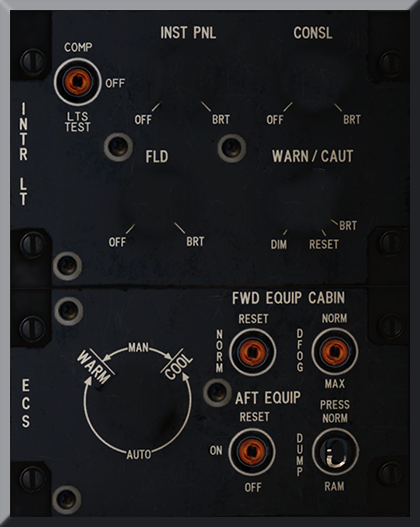
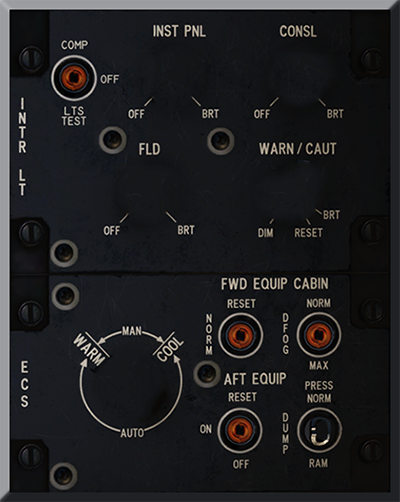
Fix for AV-8B Interface

diff --git a/Helios/Interfaces/DCS/AV8B/AV8BInterfaceEditor.xaml b/Helios/Interfaces/DCS/AV8B/AV8BInterfaceEditor.xaml
@@ -146,7 +146,7 @@
           <TextBlock Margin="4" TextWrapping="Wrap">
             In order for Helios to interface with DCS AV-8B an updated Export.lua file must be installed. This will back up and existing Export.lua file and deploy the necessary Helios configuration.
           </TextBlock>
-          <Button Click="Configure_Click" Grid.Row="1" HorizontalAlignment="Right" Margin="2">Setup DCS A-10C</Button>
+          <Button Click="Configure_Click" Grid.Row="1" HorizontalAlignment="Right" Margin="2">Setup DCS AV-8B</Button>
         </StackPanel>
       </StackPanel>
     </GroupBox>

diff --git a/Helios/Interfaces/DCS/AV8B/AV8BInterface.cs b/Helios/Interfaces/DCS/AV8B/AV8BInterface.cs
@@ -83,7 +83,7 @@ namespace GadrocsWorkshop.Helios.Interfaces.DCS.AV8B
         {
             DCSConfigurator config = new DCSConfigurator("DCSAV8B", DCSPath);
             config.ExportConfigPath = "Config\\Export";
-            config.ExportFunctionsPath = "pack://application:,,,/Helios;component/Interfaces/DCS/AV-8B/ExportFunctions.lua";
+            config.ExportFunctionsPath = "pack://application:,,,/Helios;component/Interfaces/DCS/AV8B/ExportFunctions.lua";
             Port = config.Port;
             _phantomFix = config.PhantomFix;
             _phantomLeft = config.PhantomFixLeft;
@@ -111,6 +111,11 @@ namespace GadrocsWorkshop.Helios.Interfaces.DCS.AV8B
             AddFunction(new PushButton(this, MPCD_LEFT, "3218", "3218", "Left MFCD", "OSB19", "1", "0", "%1d"));
             AddFunction(new PushButton(this, MPCD_LEFT, "3219", "3219", "Left MFCD", "OSB20", "1", "0", "%1d"));
             AddFunction(new Axis(this, MPCD_LEFT, "3194", "3194", 0.1d, 0d, 1d, "Left MFCD", "Off/Brightness Control"));
+            AddFunction(Switch.CreateThreeWaySwitch(this, MPCD_LEFT, "3220", "3220", "-1", "Day", "0", "Off", "1", "Night", "Left MFCD", "DAY/NIGHT Mode", "%1d"));
+            AddFunction(Switch.CreateThreeWaySwitch(this, MPCD_LEFT, "3221", "3221", "-1", "More", "0", "Off", "1", "Less", "Left MFCD", "Symbology", "%1d"));
+            AddFunction(Switch.CreateThreeWaySwitch(this, MPCD_LEFT, "3222", "3222", "-1", "Up", "0", "Off", "1", "Down", "Left MFCD", "Gain", "%1d"));
+            AddFunction(Switch.CreateThreeWaySwitch(this, MPCD_LEFT, "3223", "3223", "-1", "Up", "0", "Off", "1", "Down", "Left MFCD", "Contrast", "%1d"));
+
             #endregion
 
             #region Right MCFD
@@ -135,6 +140,11 @@ namespace GadrocsWorkshop.Helios.Interfaces.DCS.AV8B
             AddFunction(new PushButton(this, MPCD_RIGHT, "3242", "3242", "Right MFCD", "OSB19"));
             AddFunction(new PushButton(this, MPCD_RIGHT, "3243", "3243", "Right MFCD", "OSB20"));
             AddFunction(new Axis(this, MPCD_RIGHT, "3195", "3195", 0.1d, 0d, 1d, "Right MFCD", "Off/Brightness Control"));
+            AddFunction(Switch.CreateThreeWaySwitch(this, MPCD_RIGHT, "3244", "3244", "-1", "Day", "0", "Off", "1", "Night", "Right MFCD", "DAY/NIGHT Mode", "%1d"));
+            AddFunction(Switch.CreateThreeWaySwitch(this, MPCD_RIGHT, "3245", "3245", "-1", "More", "0", "Off", "1", "Less", "Right MFCD", "Symbology", "%1d"));
+            AddFunction(Switch.CreateThreeWaySwitch(this, MPCD_RIGHT, "3246", "3246", "-1", "Up", "0", "Off", "1", "Down", "Right MFCD", "Gain", "%1d"));
+            AddFunction(Switch.CreateThreeWaySwitch(this, MPCD_RIGHT, "3247", "3247", "-1", "Up", "0", "Off", "1", "Down", "Right MFCD", "Contrast", "%1d"));
+
 
             #endregion
 
@@ -175,9 +185,6 @@ namespace GadrocsWorkshop.Helios.Interfaces.DCS.AV8B
             AddFunction(new Axis(this, UFCCONTROL, "3299", "3299", 0.1d, 0d, 1d, "UFC", "Comm 2 Volume"));
             AddFunction(new Axis(this, UFCCONTROL, "3300", "3300", 0.1d, 0d, 1d, "UFC", "Comm 1 Channel selector"));
             AddFunction(new Axis(this, UFCCONTROL, "3301", "3301", 0.1d, 0d, 1d, "UFC", "Comm 2 Channel selector"));
-            //       public IndicatorPushButton(BaseUDPInterface sourceInterface, string deviceId, string buttonId, string argId, string device, string name)
-            //       public FlagValue(BaseUDPInterface sourceInterface, string id, string device, string name, string description)
-            //       public PushButton(BaseUDPInterface sourceInterface, string deviceId, string buttonId, string argId, string device, string name)
             AddFunction(Switch.CreateThreeWaySwitch(this, HUDCONTROL, "3288", "3288", "0", "Norm", "0.5", "Reject 1", "1", "Reject 2", "HUD Control", "Declutter switch", "%1d"));
             AddFunction(new Axis(this, HUDCONTROL, "3289", "3289", 0.1d, 0d, 1d, "HUD Control", "Off/Brightness control"));
             AddFunction(Switch.CreateThreeWaySwitch(this, HUDCONTROL, "3290", "3290", "0", "Day", "0.5", "Auto", "1", "Night", "HUD Control", "Display Mode switch", "%1d"));
@@ -439,7 +446,6 @@ namespace GadrocsWorkshop.Helios.Interfaces.DCS.AV8B
             AddFunction(new NetworkValue(this, "385", "Stores Management", "SMC mode (value)", "Current SMC mode in value form", "", BindingValueUnits.Numeric));
             AddFunction(new NetworkValue(this, "386", "Stores Management", "Fuze mode 1 (value)", "Fuze mode (1st part)", "", BindingValueUnits.Numeric));
             AddFunction(new NetworkValue(this, "387", "Stores Management", "Fuze mode 2 (value)", "Fuze mode (2nd part)", "", BindingValueUnits.Numeric));
-            AddFunction(new NetworkValue(this, "2007", "Stores Management", "Fuze Mode (combined 2007)", "Fuze mode in combined form", "", BindingValueUnits.Numeric));
             AddFunction(new NetworkValue(this, "2019", "Stores Management", "Fuze Mode (combined 2019)", "Fuze mode in combined form", "", BindingValueUnits.Numeric));
 
             #endregion
@@ -456,21 +462,21 @@ namespace GadrocsWorkshop.Helios.Interfaces.DCS.AV8B
             // switch positions still need to be labeled
             AddFunction(new Axis(this, RSC, "3614", "3614", 0.03d, 0d, 1d, "V/UHF Radio", "Volume Knob"));
             AddFunction(new Axis(this, RSC, "3615", "3615", 0.03d, 0d, 1d, "V/UHF Radio", "Chan/Freq Knob"));
-            AddFunction(new Switch(this, RSC, "3616", new SwitchPosition[] {new SwitchPosition("-0.20", "Norm", "3616"), new SwitchPosition("0.0", "Norm", "3616"), new SwitchPosition("0.0", "Norm", "3616"), new SwitchPosition("0.20", "Norm", "3616"), new SwitchPosition("0.40", "Norm", "3616"), new SwitchPosition("0.60", "Norm", "3616"), new SwitchPosition("0.80", "Norm", "3616"), new SwitchPosition("1.0", "Norm", "3616") }, "V / UHF Radio", "Operational Mode Switch", "%0.1f"));
+            AddFunction(new Switch(this, RSC, "3616", new SwitchPosition[] {new SwitchPosition("-0.20", "Zero", "3616"), new SwitchPosition("0.0", "Off", "3616"), new SwitchPosition("0.0", "Test", "3616"), new SwitchPosition("0.20", "TR+G", "3616"), new SwitchPosition("0.40", "TR", "3616"), new SwitchPosition("0.60", "ADF", "3616"), new SwitchPosition("0.80", "Chng PRST", "3616"), new SwitchPosition("1.0", "Norm", "3616") }, "V / UHF Radio", "Operational Mode Switch", "%0.1f"));
             AddFunction(new PushButton(this, RSC, "3617", "3617", "V/UHF Radio", "Ancillary Mode Pointer A mode"));
             AddFunction(new PushButton(this, RSC, "3618", "3618", "V/UHF Radio", "Ancillary Mode Switch P mode"));
-            AddFunction(new Switch(this, RSC, "3619", new SwitchPosition[] { new SwitchPosition("0.0", "Norm", "3619"), new SwitchPosition("0.0", "Norm", "3619"), new SwitchPosition("0.15", "Norm", "3619"), new SwitchPosition("0.30", "Norm", "3619"), new SwitchPosition("0.45", "Norm", "3619"), new SwitchPosition("0.60", "Norm", "3619"), new SwitchPosition("0.75", "Norm", "3619"), new SwitchPosition("0.90", "Norm", "3619"), new SwitchPosition("1.00", "Norm", "3619") }, "V / UHF Radio", "Frequency Mode Switch", "%0.1f"));
+            AddFunction(new Switch(this, RSC, "3619", new SwitchPosition[] { new SwitchPosition("0.0", "AJ/M", "3619"), new SwitchPosition("0.0", "AJ", "3619"), new SwitchPosition("0.15", "MAR", "3619"), new SwitchPosition("0.30", "PRST", "3619"), new SwitchPosition("0.45", "MAN", "3619"), new SwitchPosition("0.60", "234", "3619"), new SwitchPosition("0.75", "121", "3619"), new SwitchPosition("0.90", "Norm", "3619"), new SwitchPosition("1.00", "Norm", "3619") }, "V / UHF Radio", "Frequency Mode Switch", "%0.1f"));
             AddFunction(new PushButton(this, RSC, "3620", "3620", "V/UHF Radio", "LOAD/OFST Switch"));
 
             #endregion
 
             #region ACNIP
             // switch positions still need to be labeled
-            AddFunction(Switch.CreateToggleSwitch(this, ACNIP, "3621", "3621", "1", "On", "0", "Off", "ACNIP", "ACNIP Mode Switch", "%1d"));
-            AddFunction(Switch.CreateToggleSwitch(this, ACNIP, "3622", "3622", "1", "On", "0", "Off", "ACNIP", "KY-1 Cipher Type Selector Switch", "%1d"));
-            AddFunction(Switch.CreateToggleSwitch(this, ACNIP, "3623", "3623", "1", "On", "0", "Off", "ACNIP", "KY-2 Cipher Type Selector Switch", "%1d"));
-            AddFunction(Switch.CreateToggleSwitch(this, ACNIP, "3624", "3624", "1", "On", "0", "Off", "ACNIP", "KY-1 Code/Mode Switch", "%1d"));
-            AddFunction(Switch.CreateToggleSwitch(this, ACNIP, "3625", "3625", "1", "On", "0", "Off", "ACNIP", "KY-2 Code/Mode Switch", "%1d"));
+            AddFunction(Switch.CreateToggleSwitch(this, ACNIP, "3621", "3621", "1", "MAN", "0", "UFC", "ACNIP", "ACNIP Mode Switch", "%1d"));
+            AddFunction(Switch.CreateToggleSwitch(this, ACNIP, "3622", "3622", "1", "DIPH", "0", "BB", "ACNIP", "KY-1 Cipher Type Selector Switch", "%1d"));
+            AddFunction(Switch.CreateToggleSwitch(this, ACNIP, "3623", "3623", "1", "DIPH", "0", "BB", "ACNIP", "KY-2 Cipher Type Selector Switch", "%1d"));
+            AddFunction(Switch.CreateToggleSwitch(this, ACNIP, "3624", "3624", "1", "Code", "0", "Mode", "ACNIP", "KY-1 Code/Mode Switch", "%1d"));
+            AddFunction(Switch.CreateToggleSwitch(this, ACNIP, "3625", "3625", "1", "Code", "0", "Mode", "ACNIP", "KY-2 Code/Mode Switch", "%1d"));
             AddFunction(Switch.CreateToggleSwitch(this, ACNIP, "3626", "3626", "1", "On", "0", "Off", "ACNIP", "ACNIP Radio Selector Switch", "%1d"));
             AddFunction(Switch.CreateToggleSwitch(this, ACNIP, "3627", "3627", "1", "On", "0", "Off", "ACNIP", "KY-58 Codes Clear Switch", "%1d"));
             AddFunction(Switch.CreateThreeWaySwitch(this, ACNIP, "3628", "3628", "1", "On", "0.5", "Off", "0", "Off", "ACNIP", "KY-58 Remote Codes Load Switch", "%1d"));
@@ -488,8 +494,7 @@ namespace GadrocsWorkshop.Helios.Interfaces.DCS.AV8B
             #endregion
 
             #region Interior Lights
-            // switch positions still need to be labeled
-            AddFunction(new PushButton(this, LTINT, "3634", "3634", "Interior Lights", "Compass Light/Test Lights")); //default_tumb_button(_("Compass Light/Test Lights") * * * Not sure if this is correct
+            AddFunction(Switch.CreateThreeWaySwitch(this, LTINT, "3634", "3634", "1", "Compass", "0.5", "Off","0","Lights Test","Interior Lights", "Compass Light/Test Lights","%.1f")); //default_tumb_button(_("Compass Light/Test Lights") * * * Not sure if this is correct
             AddFunction(new Axis(this, LTINT, "3635", "3635", 0.03d, 0d, 1d, "Interior Lights", "Instruments Lights"));
             AddFunction(new Axis(this, LTINT, "3636", "3636", 0.03d, 0d, 1d, "Interior Lights", "Console Lights"));
             AddFunction(new Axis(this, LTINT, "3637", "3637", 0.03d, 0d, 1d, "Interior Lights", "Flood Lights"));
@@ -524,18 +529,16 @@ namespace GadrocsWorkshop.Helios.Interfaces.DCS.AV8B
             #endregion
 
             #region ECS
-            // switch positions still need to be labeled
             AddFunction(new Axis(this, ECS, "3639", "3639", 0.03d, 0d, 1d, "Environment Control", "Temperature Control Knob"));
-            AddFunction(Switch.CreateToggleSwitch(this, ECS, "3640", "3640", "1", "On", "0", "Off", "Environment Control", "Fwd Equipment Bay ECS Switch", "%1d"));
-            AddFunction(new Switch(this, ECS, "3641", new SwitchPosition[] { new SwitchPosition("0.0", "Norm", "3641"), new SwitchPosition("0.5", "Norm", "3641"), new SwitchPosition("1.0", "Norm", "3641") }, "Environment Control", "Cabin Defog Switch", "%0.1f"));
-            AddFunction(new Switch(this, ECS, "3642", new SwitchPosition[] { new SwitchPosition("0.0", "Norm", "3642"), new SwitchPosition("0.5", "Norm", "3642"), new SwitchPosition("1.0", "Norm", "3642") }, "Environment Control", "Aft Equipment Bay ECS Switch", "%0.1f"));
-            AddFunction(new Switch(this, ECS, "3643", new SwitchPosition[] { new SwitchPosition("0.0", "Norm", "3643"), new SwitchPosition("0.5", "Norm", "3643"), new SwitchPosition("1.0", "Norm", "3643") }, "Environment Control", "Cabin Pressure Switch", "%0.1f"));
+            AddFunction(Switch.CreateToggleSwitch(this, ECS, "3640", "3640", "1", "Norm", "0", "Reset", "Environment Control", "Fwd Equipment Bay ECS Switch", "%1d"));
+            AddFunction(new Switch(this, ECS, "3641", new SwitchPosition[] { new SwitchPosition("0.0", "Norm", "3641"), new SwitchPosition("0.5", "Defog", "3641"), new SwitchPosition("1.0", "Max", "3641") }, "Environment Control", "Cabin Defog Switch", "%0.1f"));
+            AddFunction(new Switch(this, ECS, "3642", new SwitchPosition[] { new SwitchPosition("0.0", "Reset", "3642"), new SwitchPosition("0.5", "On", "3642"), new SwitchPosition("1.0", "Off", "3642") }, "Environment Control", "Aft Equipment Bay ECS Switch", "%0.1f"));
+            AddFunction(new Switch(this, ECS, "3643", new SwitchPosition[] { new SwitchPosition("0.0", "PRESS NORM", "3643"), new SwitchPosition("0.5", "DUMP", "3643"), new SwitchPosition("1.0", "RAM", "3643") }, "Environment Control", "Cabin Pressure Switch", "%0.1f"));
             #endregion
 
             #region Engine Display Panel
             AddFunction(new ScaledNetworkValue(this, "271", 0.94d, "EDP", "Nozzle Position", "Current Nozzle position.", "Nozzle position in degrees", BindingValueUnits.Degrees));
             AddFunction(new PushButton(this, EDP, "3655", "3655", "EDP", "BIT"));
-            //elements["PTN_272"] = default_axis_limited(_("EDP Brightness Control"), devices.EDP, edp_commands.BRT_Knob, 272, 0, 0.03, false, 0, { 0, 1})
             AddFunction(new Axis(this, EDP, "3272", "3272", 0.1d, 0d, 1d, "EDP", "Off/Brightness Control"));
             AddFunction(new Digits2Display(this, EDP, "2006", "EDP", "H2O display", "Amount of H2O available"));
             AddFunction(new Digits4Display(this, EDP, "2002", "EDP", "RPM display", "Engine RPM percentage"));
@@ -611,12 +614,10 @@ namespace GadrocsWorkshop.Helios.Interfaces.DCS.AV8B
             //AddFunction(new RotaryEncoder(this, FLIGHTCONTROLS, BUTTON_3, "66", 0.1d, "SAI", "Pitch Trim / Cage"));
             //AddFunction(new NetworkValue(this, "715", "SAI", "Pitch Adjust", "Current pitch adjustment setting", "0 to 1", BindingValueUnits.Numeric));
 
-            // This next set are a little flakey
+
             AddFunction(new NetworkValue(this, "363", "Flight Instruments", "Slip Ball", "Current position of the slip ball relative to the center of the tube.", "(-1 to 1) -1 is full left and 1 is full right.", BindingValueUnits.Numeric));
-            //CalibrationPointCollectionDouble slipScale = new CalibrationPointCollectionDouble(-1.0d, -26d, 1.0d, 26d);
-            //AddFunction(new ScaledNetworkValue(this, "363", slipScale, "Flight Instruments", "Sideslip", "Sideslip Ball Indicator", "", BindingValueUnits.Degrees));
-            AddFunction(new NetworkValue(this, "24", "Flight Instruments", "Slip Ball (A-10C)", "Current position of the slip ball relative to the center of the tube.", "(-1 to 1) -1 is full left and 1 is full right.", BindingValueUnits.Numeric));
-            AddFunction(new NetworkValue(this, "23", "Flight Instruments", "Turn Needle (A-10C)", "Position of the turn needle.", "(-1 to 1)", BindingValueUnits.Numeric));
+            //AddFunction(new NetworkValue(this, "24", "Flight Instruments", "Slip Ball (A-10C)", "Current position of the slip ball relative to the center of the tube.", "(-1 to 1) -1 is full left and 1 is full right.", BindingValueUnits.Numeric));
+            //AddFunction(new NetworkValue(this, "23", "Flight Instruments", "Turn Needle (A-10C)", "Position of the turn needle.", "(-1 to 1)", BindingValueUnits.Numeric));
 
             #endregion
 

diff --git a/Helios/Interfaces/DCS/AV8B/AV8BInterfaceEditor.xaml.cs b/Helios/Interfaces/DCS/AV8B/AV8BInterfaceEditor.xaml.cs
@@ -64,7 +64,7 @@ namespace GadrocsWorkshop.Helios.Interfaces.DCS.AV8B
             InitializeComponent();
             Configuration = new DCSConfigurator("DCSAV8B", DCSPath);
             Configuration.ExportConfigPath = "Config\\Export";
-            Configuration.ExportFunctionsPath = "pack://application:,,,/Helios;component/Interfaces/DCS/AV-8B/ExportFunctions.lua";
+            Configuration.ExportFunctionsPath = "pack://application:,,,/Helios;component/Interfaces/DCS/AV8B/ExportFunctions.lua";
         }
 
         #region Properties
